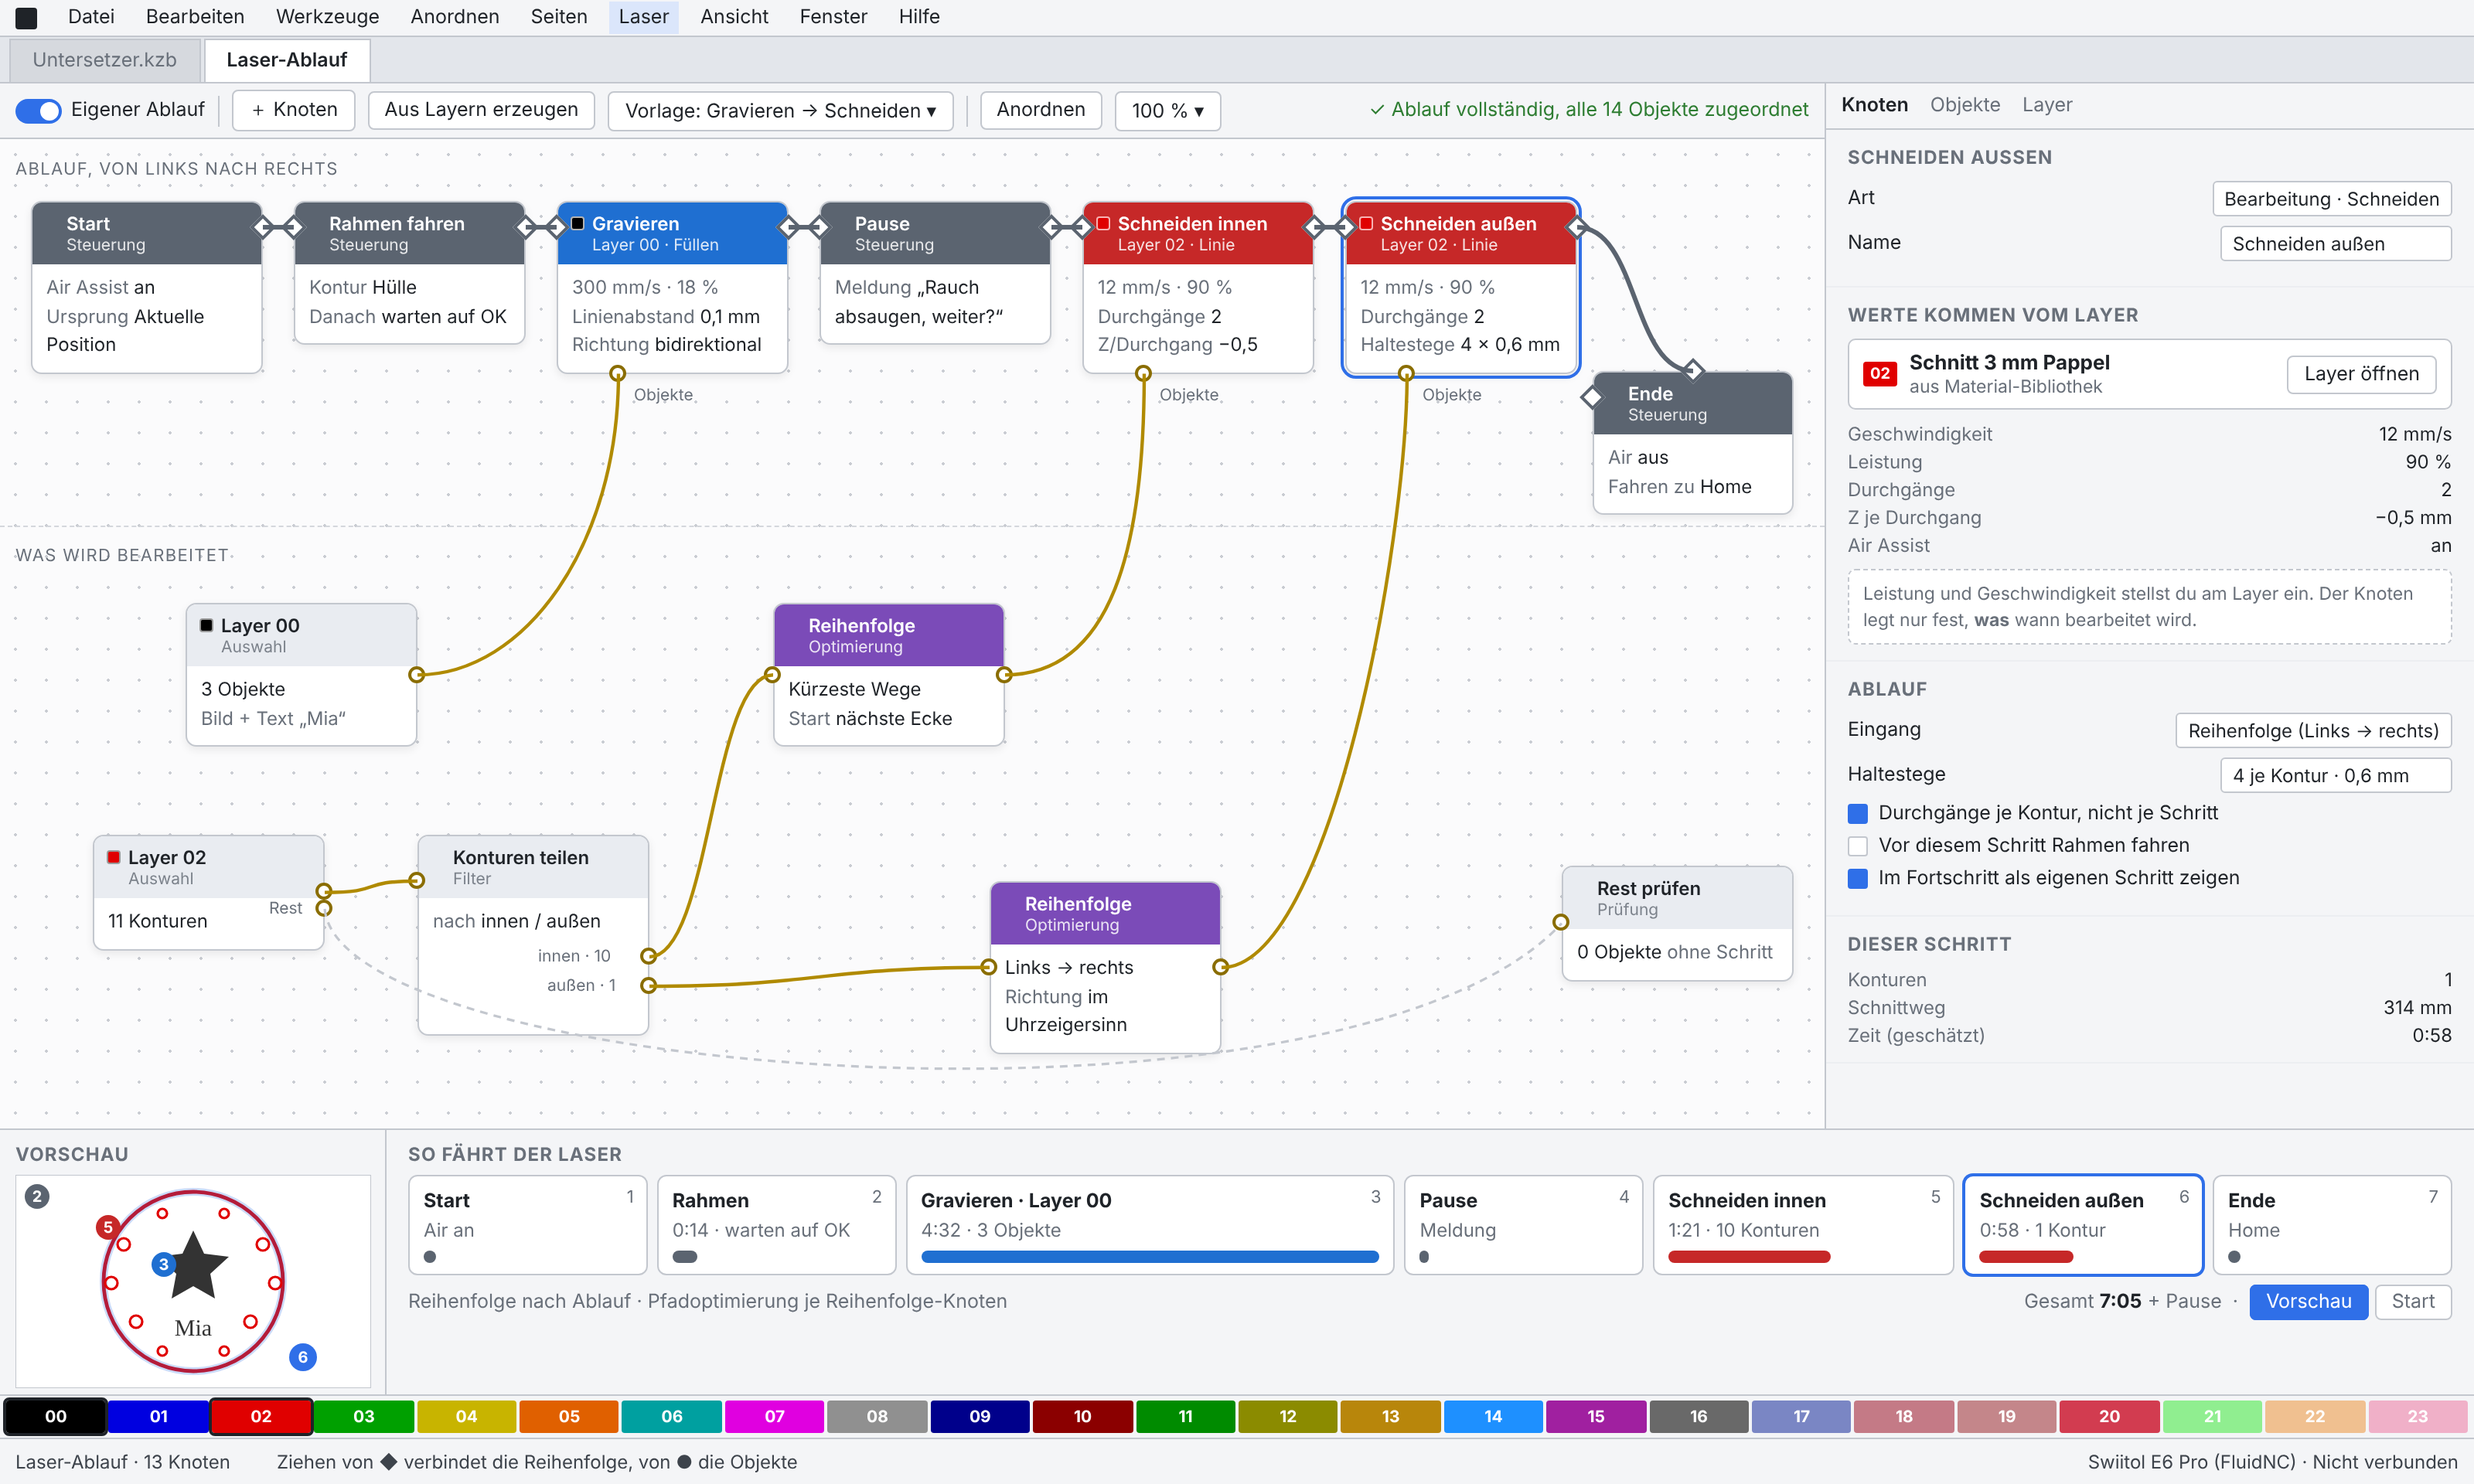
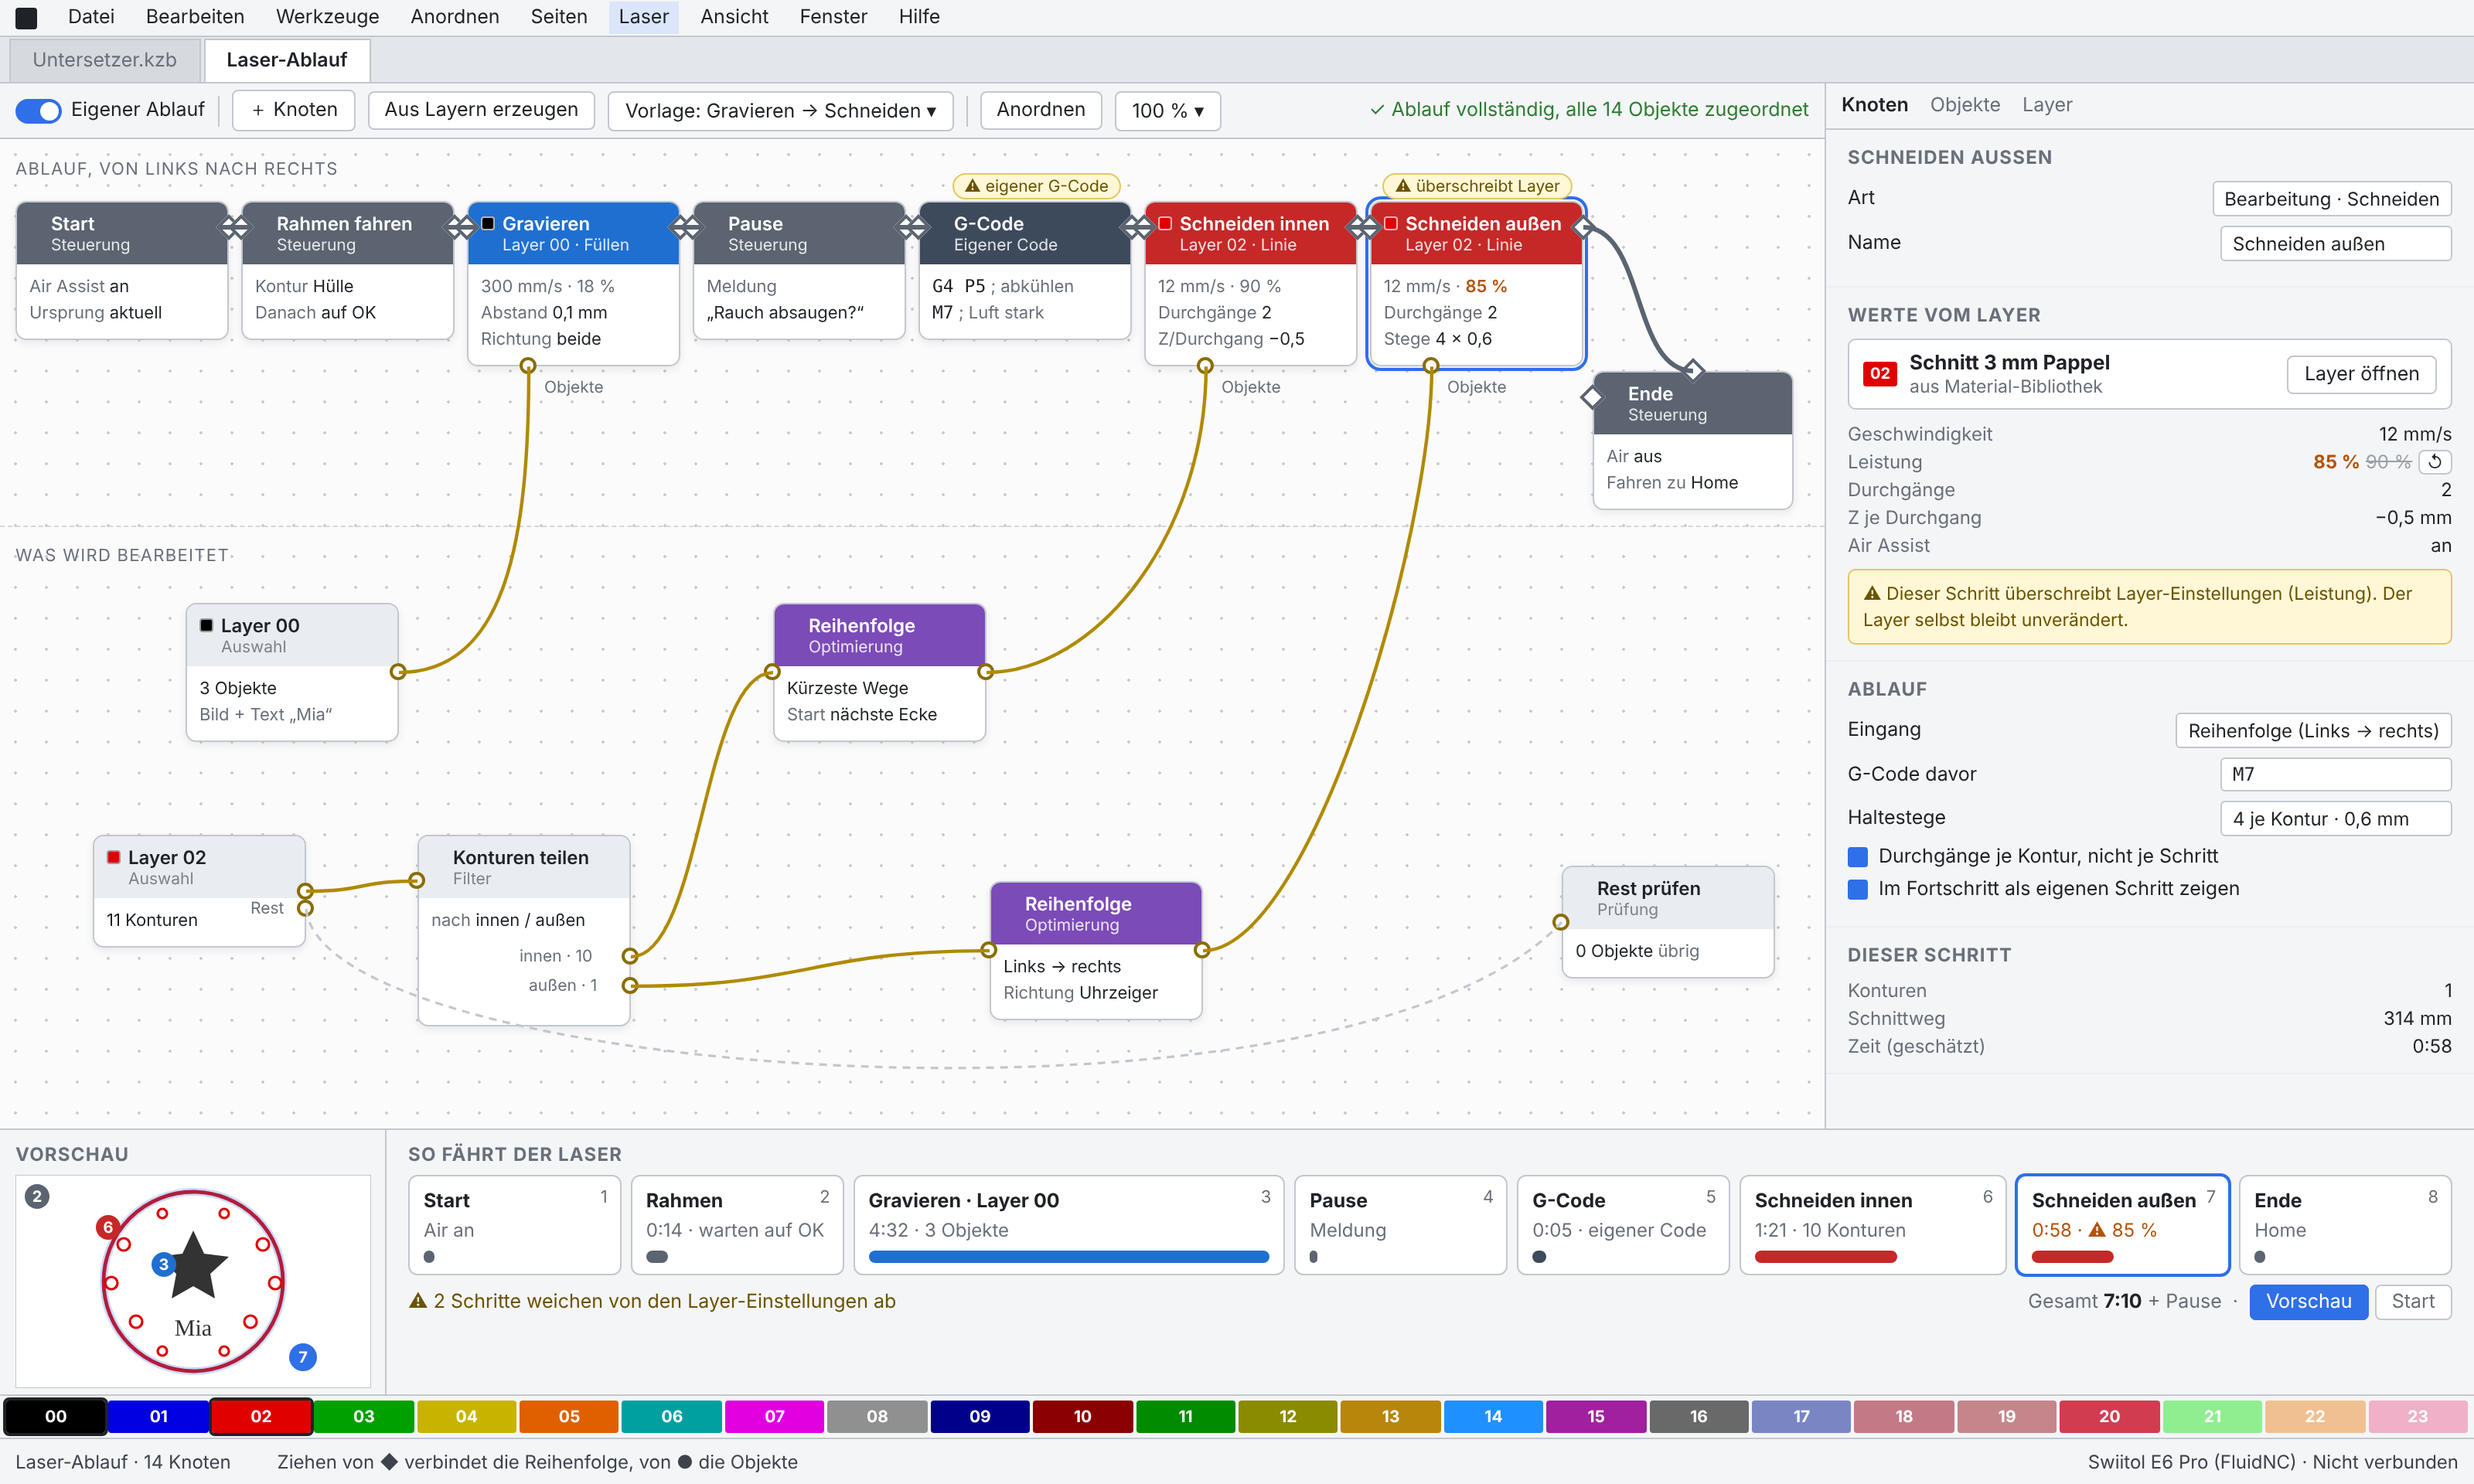
Allow per-step overrides and custom G-code in job graph proposal
Claude-Session: https://claude.ai/code/session_01VjQkzR5DGPZ6K9zsbFUHaA

diff --git a/docs/job-graph.md b/docs/job-graph.md
@@ -30,28 +30,53 @@ A **Laser job** window shows the job as a graph that the user can rewire:
 - **Operation nodes:** engrave, fill or cut a selection.
 - **Order nodes:** path optimization for one selection (shortest travel, left to right, inner before outer, start
   corner, direction).
-- **Control nodes:** start, run frame, pause with a message, air assist on/off, Z step, repeat n times, end (go home).
+- **Control nodes:** start, run frame, pause with a message, air assist on/off, Z step, repeat n times, custom
+  G-code, end (go home).
 - **Check node:** lists objects that no step uses, so nothing is silently left out.
 
 The bottom strip ("How the laser runs") lists the resulting steps with estimated time per step and in total, and a
 small preview marks where each step lies on the workpiece.
 
-## Key decision: values stay on the layer
+## Layer settings and overrides
 
-Recommendation: **an operation node points to a layer and does not hold its own speed or power.** The layer
-remains the only source of cut settings, in line with the existing rule that objects always use the layer
-settings. The graph only decides order, selection and flow. The node inspector shows the layer's values read-only,
-with a button to open the layer.
+By default an operation node **points to a layer and uses its cut settings**. The layer remains the normal source
+of speed, power, passes and so on, and the node inspector shows those values with a button to open the layer.
 
-Node-only settings are limited to things that are about flow, not material: tabs for this step, "run frame before
-this step", "passes per contour vs. per step", show as its own step in progress.
+A node may **override individual settings** for its step (for example power or passes). Overrides are allowed and
+deliberate, but always visible:
+
+- The inspector shows the overridden value next to the layer value ("85 % · layer: 90 %"), with a reset button.
+- The node gets a small badge, and the inspector a short notice: "This step overrides layer settings".
+- Before a job starts, the job summary lists the steps with overrides, so a changed material preset can't be
+  silently ignored.
+
+Settings that are about flow are always node settings: tabs for this step, "run frame before this step", "passes
+per contour vs. per step", show as its own step in progress.
+
+## Custom G-code
+
+The graph can also change the G-code itself:
+
+- **G-code node** in the sequence chain: inserts the user's lines at that point (for example `G4 P5` to let the
+  material cool, or switching an extra output).
+- **Before/after G-code** on an operation node: lines that run around one step.
+- **Replace laser on/off** for one step (the firmware profile's `laserOn` lines), for machines that need special
+  commands.
+
+Because custom G-code can bypass layer and device settings, a node with custom G-code shows the same notice as an
+override. Safety rules stay in force: the lines are checked against the firmware profile (no homing, no unit or
+coordinate-mode changes without restoring them, no `M3`/`M4` power above the device limit), the preview and
+estimate treat unknown lines as zero-time, and the G-code view marks each line with its node as origin
+(`GCodeOrigin` gets a `node` value). Agent (MCP) jobs keep their power and speed limits and can't add custom G-code
+without the user's confirmation.
 
 ## Architecture
 
 - **Data model:** `Doc.jobGraph` (optional) with nodes, typed ports and edges, saved in the project file and in
   undo history.
 - **Compiler:** turns the graph into the list of entries that the G-code build already processes (layer/sub-layer
-  entries with passes and `OrderOpts`) plus control inserts. Path generation stays unchanged.
+  entries with passes and `OrderOpts`, with per-step overrides applied to a copy of the layer settings) plus
+  control and custom G-code inserts. Path generation stays unchanged.
 - **Default graph:** without a custom graph, the app derives one from the layers. With no custom graph the output
   must be **byte-identical** to today's, checked by tests.
 - **Estimate and preview** follow the compiled order, so time per step comes from the existing estimator.
@@ -62,11 +87,14 @@ this step", "passes per contour vs. per step", show as its own step in progress.
 
 1. Data model, compiler and default graph from layers, view only. Tests prove identical output.
 2. Editable graph: selection, filter, order and operation nodes; check node.
-3. Control nodes (frame, pause, air, Z, repeat), per-step estimate and preview, MCP command, saved graph templates.
+3. Control nodes (frame, pause, air, Z, repeat), per-step overrides with notice, per-step estimate and preview.
+4. Custom G-code nodes and before/after G-code with checks, MCP command, saved graph templates.
 
 ## Risks and open questions
 
-- Two views of the same thing (layer table and graph) must never disagree.
+- Two views of the same thing (layer table and graph) must never disagree. Overrides make this harder, hence the
+  badge, the notice and the list before the job starts.
+- Custom G-code is machine control. It needs the checks above and tests in the Virtual Machine before release.
 - Pause support differs by firmware. Whether `M0` pauses on FluidNC needs a hardware test; firmware without it gets
   a warning or no pause node.
 - `.lbrn2` import has to map cleanly onto the default graph.
